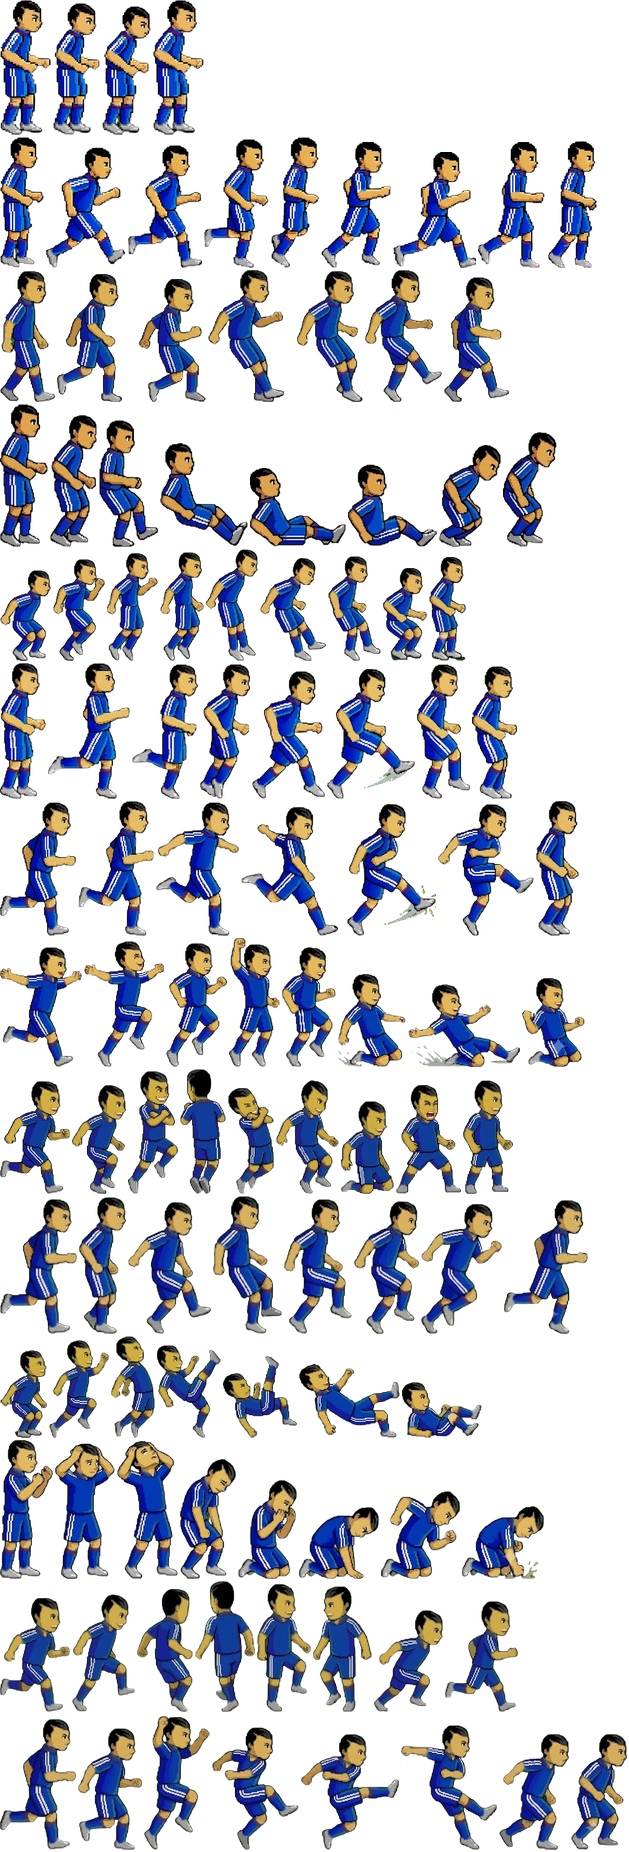
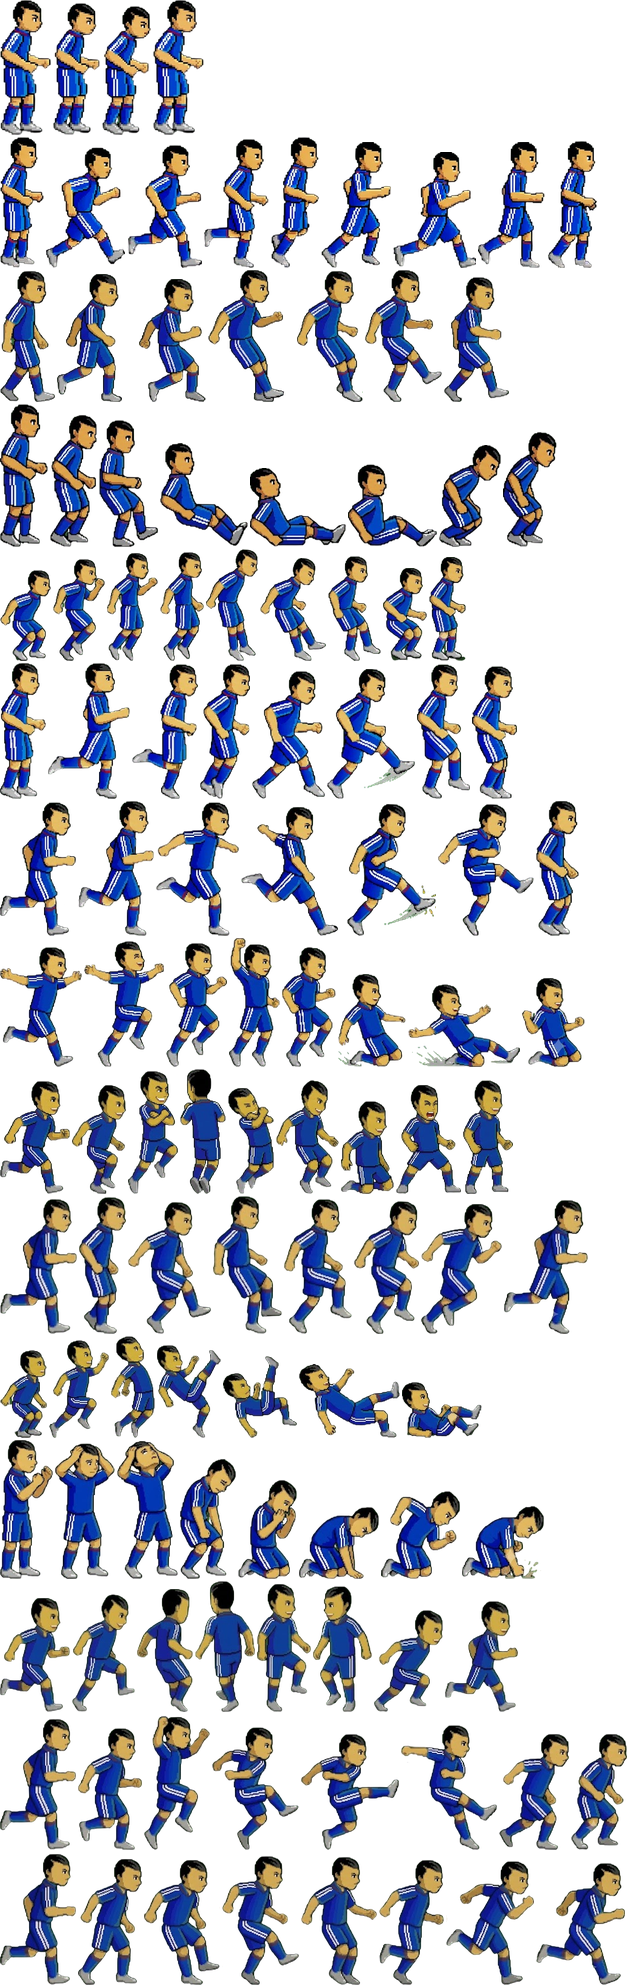
cap nhat qua nguoi

diff --git a/js/game.js b/js/game.js
@@ -250,7 +250,10 @@ function outcome(c,o){
 // Bước "Lừa qua": hiện bảng, tung xác suất, diễn hoạt. Trả về true nếu qua được.
 function lqStep(c,o){const p=chanceP(o.att,o.def,o.base??CH_BASE.lq,o.g??LQ_G),ok=rnd()<p;
   roll(o.rollLab||"Lừa qua",p,ok,o.detail);
-  c.S.push({dur:o.dur||0.9,t:o.t||{},ball:o.ball||{carry:o.holder||"A"},anim:o.anim,popup:{title:o.title,sub:"Lừa qua",L:o.L,R:o.R,p,ok},label:o.label,txt:o.txt});
+  // bảng hiện trước (cầu thủ đứng đối mặt), động tác lừa/kỹ năng diễn SAU khi bảng đóng để người chơi nhìn thấy
+  c.S.push({dur:0.6,t:o.t||{},ball:o.ball||{carry:o.holder||"A"},popup:{title:o.title,sub:"Lừa qua",L:o.L,R:o.R,p,ok},label:o.label,txt:o.txt});
+  if(ok&&o.anim){const who=Object.keys(o.anim)[0],nm=o.anim[who],sk=SKILLS[nm];
+    c.S.push({dur:sk?1.1:0.9,t:{},ball:{carry:who},anim:o.anim,label:sk?{[who]:sk.n+"!"}:undefined,txt:sk?`${c.ids[who].p.n} tung kỹ năng ${sk.n}!`:`${c.ids[who].p.n} đảo người lừa bóng`})}
   return ok}
 function lostBall(c,D,who,txt){c.S.push({dur:0.9,t:{D:[c.ids[who].x+0.6,c.ids[who].y]},ball:{carry:"D"},anim:{D:"slide",[who]:"fall"},txt:txt||`${D.n} xoạc bóng chuẩn xác`});
   c.S.push({dur:1,t:{},ball:{fly:null,to:OUT[(rnd()*3)|0],h:2},txt:`${D.n} phá bóng ra xa`});return "lost"}
@@ -283,7 +286,7 @@ function sceneDribble(c){
   const skl=trySkill(A,["roulette","stepover"]),a=eff(A,"re")*(skl?SKILLS[skl].mult:1);
   if(skl)roll(`Kỹ năng: ${SKILLS[skl].n}`,SKILLS[skl].rate,true,`${A.n} ★${A.star} — sức lừa ×${SKILLS[skl].mult}`);
   const ok=lqStep(c,{title:skl?`Kỹ Năng: ${SKILLS[skl].n}`:"Cơ Hội Sút Gần",att:a,def:eff(D,"xoac")*defBoost(c.def,"xoac"),L:[ent(A,c.atk,"re")],R:[ent(D,c.def,"xoac")],
-    detail:`Rê dắt ${A.re}${skl?` ×${SKILLS[skl].mult}`:""} vs Xoạc ${D.xoac}`,dur:skl?1.1:0.9,t:{A:[33.5,y0],D:[34.5,y0]},anim:skl?{A:skl}:undefined,label:{A:skl?SKILLS[skl].n+"!":`Rê dắt: ${A.re}`,D:`Xoạc: ${D.xoac}`},txt:skl?`${A.n} tung kỹ năng ${SKILLS[skl].n}!`:`${A.n} đối mặt ${D.n}`});
+    detail:`Rê dắt ${A.re}${skl?` ×${SKILLS[skl].mult}`:""} vs Xoạc ${D.xoac}`,dur:skl?1.1:0.9,t:{A:[33.5,y0],D:[34.5,y0]},anim:{A:skl||"lua"},label:{A:skl?SKILLS[skl].n+"!":`Rê dắt: ${A.re}`,D:`Xoạc: ${D.xoac}`},txt:skl?`${A.n} tung kỹ năng ${SKILLS[skl].n}!`:`${A.n} đối mặt ${D.n}`});
   if(!ok)return lostBall(c,D,"A");if(tryFoul(c,A,D,y0,a))return "foul";
   const sp=shotSpot(y0);c.S.push({dur:1.3,t:{A:sp,D:[sp[0]-3,sp[1]+(rnd()<.5?3:-3)]},ball:{carry:"A"},txt:`${A.n} đảo người qua ${D.n} đầy tinh tế!`});
   return finishShot(c,{role:"A",from:sp,stat:"sut",title:"Cơ Hội Sút Gần"});
@@ -293,7 +296,7 @@ function scenePass(c){
   const A=rp(c.atk,RW.aMid,"re"),B=rp(c.atk,RW.aFin,"sut",A),D=rp(c.def,RW.dNear,"doat",null,A),y0=laneY(A);setup(c,A,D,y0,B);
   c.S.push({dur:1.4,t:{A:[30,y0],D:[35,c.ids.D.y],G:[50.5,34+(y0-34)*.15],B:[33,c.ids.B.y]},ball:{carry:"A"},label:{A:`Rê dắt: ${A.re}`},txt:`${A.n} nhận bóng tuyệt đẹp từ đồng đội rồi dẫn bóng tiến về phía trước`});
   const ok=lqStep(c,{title:"Cơ Hội Sút Gần",att:eff(A,"re")+0.5*eff(B,"chuyen"),def:eff(D,"doat")*defBoost(c.def,"doat"),L:[ent(A,c.atk,"re"),ent(B,c.atk,"chuyen")],R:[ent(D,c.def,"doat")],
-    detail:`Rê dắt ${A.re} + 50%·Chuyền ${B.chuyen} vs Đoạt ${D.doat}`,t:{A:[33.5,y0],D:[34.5,y0]},label:{A:`Rê dắt: ${A.re}`,D:`Đoạt: ${D.doat}`},txt:`${A.n} đối mặt ${D.n}, ${B.n} băng lên phối hợp`});
+    detail:`Rê dắt ${A.re} + 50%·Chuyền ${B.chuyen} vs Đoạt ${D.doat}`,t:{A:[33.5,y0],D:[34.5,y0]},anim:{A:"lua"},label:{A:`Rê dắt: ${A.re}`,D:`Đoạt: ${D.doat}`},txt:`${A.n} đối mặt ${D.n}, ${B.n} băng lên phối hợp`});
   if(!ok)return lostBall(c,D,"A",`${D.n} đọc tình huống và cắt bóng!`);
   const recv=shotSpot(c.ids.B.y);c.S.push({dur:0.9,t:{A:[36,y0],B:recv,D:[34,y0+1]},ball:{fly:"B",to:recv},kicker:"A",txt:`${A.n} chuyền bóng lên phía trên cho ${B.n}`});
   return finishShot(c,{role:"B",from:recv,stat:"sut",title:"Cơ Hội Sút Gần"});
@@ -392,7 +395,7 @@ function sceneLong2(c){
   add(c,"A",A,c.atk,16,y0);add(c,"B",B,c.atk,22,clamp(y0+(y0<34?12:-12),8,60));add(c,"D",D,c.def,30,clamp(c.ids.B.y+(rnd()-.5)*4,8,60));add(c,"G",c.G,c.def,51,34);
   c.S.push({dur:1.3,t:{A:[21,y0],B:[26,c.ids.B.y],D:[29.5,c.ids.B.y+1],G:[50.5,34+(c.ids.B.y-34)*.15]},ball:{carry:"A"},label:{A:`Chuyền bóng: ${A.chuyen}`},txt:`${A.n} nhận bóng tuyệt đẹp từ đồng đội rồi dẫn bóng tiến về phía trước`});
   const ok=lqStep(c,{title:"Cơ Hội Sút Xa",att:eff(B,"re")+0.5*eff(A,"chuyen"),def:eff(D,"xoac")*defBoost(c.def,"xoac"),L:[ent(B,c.atk,"re"),ent(A,c.atk,"chuyen")],R:[ent(D,c.def,"xoac")],holder:"A",
-    detail:`Rê dắt ${B.re} + 50%·Chuyền ${A.chuyen} vs Xoạc ${D.xoac}`,t:{B:[28,c.ids.B.y],D:[29,c.ids.B.y+0.8]},label:{B:`Rê dắt: ${B.re}`,D:`Xoạc: ${D.xoac}`},txt:`${B.n} thoát khỏi sự đeo bám của ${D.n}`});
+    detail:`Rê dắt ${B.re} + 50%·Chuyền ${A.chuyen} vs Xoạc ${D.xoac}`,t:{B:[28,c.ids.B.y],D:[29,c.ids.B.y+0.8]},anim:{B:"lua"},label:{B:`Rê dắt: ${B.re}`,D:`Xoạc: ${D.xoac}`},txt:`${B.n} thoát khỏi sự đeo bám của ${D.n}`});
   if(!ok){c.S.push({dur:0.8,t:{D:[27,(y0+c.ids.B.y)/2]},ball:{fly:"D",to:[27,(y0+c.ids.B.y)/2]},kicker:"A",anim:{D:"slide"},txt:`${D.n} xoạc chân ra cắt đường chuyền`});
     c.S.push({dur:1,t:{},ball:{fly:null,to:OUT[(rnd()*3)|0],h:2},txt:`${D.n} phá bóng ra xa`});return "lost"}
   const sp=[29+rnd()*3,clamp(c.ids.B.y+(34-c.ids.B.y)*.3,12,56)];
@@ -405,7 +408,7 @@ function sceneLong(c){
   add(c,"A",A,c.atk,18,y0);add(c,"D",D,c.def,30,clamp(y0+(rnd()-.5)*6,10,58));add(c,"G",c.G,c.def,51,34);
   c.S.push({dur:1.3,t:{A:[25,y0],D:[29,c.ids.D.y],G:[50.5,34+(y0-34)*.15]},ball:{carry:"A"},label:{A:`Rê dắt: ${A.re}`},txt:`[Sút xa] ${A.n} nhận bóng tuyệt đẹp từ đồng đội rồi dẫn bóng tiến về phía trước`});
   const ok=lqStep(c,{title:"Cơ Hội Sút Xa",att:eff(A,"re"),def:eff(D,"doat")*defBoost(c.def,"doat"),L:[ent(A,c.atk,"re")],R:[ent(D,c.def,"doat")],
-    detail:`Rê dắt ${A.re} vs Đoạt ${D.doat}`,t:{A:[27.5,y0],D:[28.5,y0]},label:{A:`Rê dắt: ${A.re}`,D:`Đoạt: ${D.doat}`},txt:`${A.n} tìm khoảng trống trước ${D.n}`});
+    detail:`Rê dắt ${A.re} vs Đoạt ${D.doat}`,t:{A:[27.5,y0],D:[28.5,y0]},anim:{A:"lua"},label:{A:`Rê dắt: ${A.re}`,D:`Đoạt: ${D.doat}`},txt:`${A.n} tìm khoảng trống trước ${D.n}`});
   if(!ok){const corner=rnd()<.35;c.S.push({dur:0.6,t:{D:[28.8,y0]},ball:{fly:null,to:[29,y0],h:0.8},anim:{D:"slide"},kicker:"A",txt:`${D.n} lao người chặn cú sút`});
     c.S.push({dur:0.9,t:{},ball:{fly:null,to:corner?[53.5,y0<34?12:56]:OUT[(rnd()*3)|0],h:2},txt:corner?"Bóng đổi hướng đi hết đường biên ngang. Phạt góc!":"Bóng bật ra, hàng thủ phá đi"});
     if(corner)M.queue={type:"corner",side:c.side};return "blocked"}
@@ -548,7 +551,7 @@ function drawSprite(g,a,now,x,y,sc){
 const SPR={};
 for(const [k,src] of Object.entries(SPRITE_SRC)){const img=new Image();SPR[k]={img,ready:false,tint:{}};img.onload=()=>{SPR[k].ready=true;if(window.mgrRender)mgrRender()};img.src=src}
 const charKey=p=>p.sprite||(roleOf(p)==="TM"?"gk":"std");
-const FPS={volley:16,stepover:13,roulette:13,siu:7,run:0,drib:0,pass:16,shot:16,fk:15,long:16,pen:15,slide:14,head:16,bike:13,cele:6,regret:6,catch:14,dive:14};
+const FPS={lua:10,volley:16,stepover:13,roulette:13,siu:7,run:0,drib:0,pass:16,shot:16,fk:15,long:16,pen:15,slide:14,head:16,bike:13,cele:6,regret:6,catch:14,dive:14};
 const KICK_FALLBACK={volley:["volley","shot","fk"],pass:["pass","fk","shot"],shot:["shot","fk"],long:["long","shot"],fk:["fk","shot"],pen:["fk","shot"]};
 const CONTACT={volley:.56,pass:.55,shot:.6,long:.55,fk:.65};
 function hasAnim(key,an){return !!SPRITE_META[key].anims[an]}
@@ -581,7 +584,7 @@ function pickFrame(a,key,now){
   if(an==="jump"){[r.an,r.i]=A.head?once("head"):["idle",0];r.dy=-0.55*Math.sin(clamp(t/0.6,0,1)*Math.PI);return r}
   if(an==="bike"&&A.bike){[r.an,r.i]=once("bike");r.dy=-0.5*Math.sin(clamp(t/0.7,0,1)*Math.PI);return r}
   if(an==="regret"&&A.regret){[r.an,r.i]=once("regret");return r}
-  if((an==="stepover"||an==="roulette")&&A[an]){[r.an,r.i]=once(an);return r}
+  if((an==="stepover"||an==="roulette"||an==="lua")&&A[an]){[r.an,r.i]=once(an);return r}
   if(an==="celebrate"){const sv=hasSkill(a.p,"siu")&&A.siu?"siu":"cele";if(A[sv]){[r.an,r.i]=once(sv);return r}r.an="idle";r.i=0;r.dy=-0.35*Math.abs(Math.sin(t*7));return r}
   if(a.moving&&!A.run){r.an="idle";r.i=Math.floor((a.phase||0)*1.2)%A.idle.length;r.dy=-0.04*Math.abs(Math.sin((a.phase||0)*1.6));return r}
   if(a.moving){const set=(A.drib&&scene&&scene.holder===a.role)?"drib":"run";const n=A[set].length;r.an=set;r.i=Math.floor((a.phase||0)*n/5.7)%n;return r}

diff --git a/js/sprites.js b/js/sprites.js
@@ -1,5 +1,5 @@
 /* Sprite atlas: mỗi khung hình = [x, y, rộng, cao] trong ảnh atlas. Tạo bằng tools/build_atlas.py */
-const SPRITE_META={"std":{"ref":130,"anims":{"idle":[[0,0,51,135],[53,3,47,132],[102,6,49,129],[153,0,51,135]],"run":[[0,137,44,131],[46,145,79,123],[127,145,75,123],[204,139,65,129],[271,137,48,131],[321,142,70,126],[393,152,83,116],[478,142,67,126],[547,141,51,127]],"pass":[[0,271,55,131],[57,274,80,128],[139,279,67,123],[208,270,87,132],[297,271,66,131],[365,270,77,132],[444,277,65,125]],"slide":[[0,404,48,143],[50,415,47,132],[99,420,59,127],[160,443,88,104],[250,468,96,79],[348,464,89,83],[439,445,62,102],[503,432,54,115]],"head":[[0,570,51,91],[53,559,52,102],[107,553,51,108],[160,552,44,109],[206,549,52,112],[260,558,66,103],[328,556,53,105],[383,568,44,93],[429,557,37,104]],"shot":[[0,663,46,136],[48,663,82,136],[132,664,66,135],[200,664,50,135],[252,671,73,128],[327,669,88,130],[417,664,53,135],[472,666,45,133]],"long":[[0,802,76,134],[78,801,76,135],[156,802,83,134],[241,807,104,129],[347,804,89,132],[438,804,96,132],[536,801,43,135]],"cele":[[0,947,82,120],[84,941,80,126],[166,943,61,124],[229,938,51,129],[282,947,54,120],[338,974,68,93],[408,984,112,83],[522,978,63,89]],"siu":[[0,1081,70,113],[72,1085,54,109],[128,1071,50,123],[180,1069,46,125],[228,1088,46,106],[276,1080,63,114],[341,1101,53,93],[396,1085,65,109],[463,1080,50,114]],"stepover":[[0,1199,77,135],[79,1197,47,137],[128,1202,83,132],[213,1196,69,138],[284,1199,68,135],[354,1201,65,133],[421,1204,81,130],[504,1200,84,134]],"bike":[[0,1350,47,88],[49,1340,60,98],[111,1336,44,102],[157,1345,64,93],[223,1356,74,82],[299,1364,101,74],[402,1382,80,56]],"regret":[[0,1440,53,139],[55,1443,60,136],[117,1441,61,138],[180,1459,56,120],[238,1480,59,99],[299,1507,80,72],[381,1491,79,88],[462,1506,82,73]],"roulette":[[0,1598,70,114],[72,1594,63,118],[137,1589,56,123],[195,1581,60,131],[257,1584,54,128],[313,1586,59,126],[374,1610,69,102],[445,1601,73,111]],"volley":[[0,1719,76,131],[78,1728,64,122],[144,1716,66,134],[212,1727,87,123],[301,1734,98,116],[401,1725,96,125],[499,1734,70,116],[571,1734,56,116]]}},"gk":{"ref":130,"anims":{"idle":[[0,2,86,129],[88,5,83,126],[173,12,86,119],[261,0,84,131]],"catch":[[0,148,82,114],[84,133,98,129],[184,134,116,128],[302,184,131,78],[435,179,121,83],[558,176,85,86],[645,191,88,71]],"dive":[[0,271,88,115],[90,264,94,122],[186,271,118,115],[306,276,119,110],[427,310,85,76],[514,326,94,60],[610,316,77,70]]}}};
+const SPRITE_META={"std":{"ref":130,"anims":{"idle":[[0,0,51,135],[53,3,47,132],[102,6,49,129],[153,0,51,135]],"run":[[0,137,44,131],[46,145,79,123],[127,145,75,123],[204,139,65,129],[271,137,48,131],[321,142,70,126],[393,152,83,116],[478,142,67,126],[547,141,51,127]],"pass":[[0,271,55,131],[57,274,80,128],[139,279,67,123],[208,270,87,132],[297,271,66,131],[365,270,77,132],[444,277,65,125]],"slide":[[0,404,48,143],[50,415,47,132],[99,420,59,127],[160,443,88,104],[250,468,96,79],[348,464,89,83],[439,445,62,102],[503,432,54,115]],"head":[[0,570,51,91],[53,559,52,102],[107,553,51,108],[160,552,44,109],[206,549,52,112],[260,558,66,103],[328,556,53,105],[383,568,44,93],[429,557,37,104]],"shot":[[0,663,46,136],[48,663,82,136],[132,664,66,135],[200,664,50,135],[252,671,73,128],[327,669,88,130],[417,664,53,135],[472,666,45,133]],"long":[[0,802,76,134],[78,801,76,135],[156,802,83,134],[241,807,104,129],[347,804,89,132],[438,804,96,132],[536,801,43,135]],"cele":[[0,947,82,120],[84,941,80,126],[166,943,61,124],[229,938,51,129],[282,947,54,120],[338,974,68,93],[408,984,112,83],[522,978,63,89]],"siu":[[0,1081,70,113],[72,1085,54,109],[128,1071,50,123],[180,1069,46,125],[228,1088,46,106],[276,1080,63,114],[341,1101,53,93],[396,1085,65,109],[463,1080,50,114]],"stepover":[[0,1199,77,135],[79,1197,47,137],[128,1202,83,132],[213,1196,69,138],[284,1199,68,135],[354,1201,65,133],[421,1204,81,130],[504,1200,84,134]],"bike":[[0,1350,47,88],[49,1340,60,98],[111,1336,44,102],[157,1345,64,93],[223,1356,74,82],[299,1364,101,74],[402,1382,80,56]],"regret":[[0,1440,53,139],[55,1443,60,136],[117,1441,61,138],[180,1459,56,120],[238,1480,59,99],[299,1507,80,72],[381,1491,79,88],[462,1506,82,73]],"roulette":[[0,1598,70,114],[72,1594,63,118],[137,1589,56,123],[195,1581,60,131],[257,1584,54,128],[313,1586,59,126],[374,1610,69,102],[445,1601,73,111]],"volley":[[0,1719,76,131],[78,1728,64,122],[144,1716,66,134],[212,1727,87,123],[301,1734,98,116],[401,1725,96,125],[499,1734,70,116],[571,1734,56,116]],"lua":[[0,1854,76,131],[78,1859,64,126],[144,1860,76,125],[222,1856,77,129],[301,1857,76,128],[379,1860,65,125],[446,1861,88,124],[536,1863,89,122]]}},"gk":{"ref":130,"anims":{"idle":[[0,2,86,129],[88,5,83,126],[173,12,86,119],[261,0,84,131]],"catch":[[0,148,82,114],[84,133,98,129],[184,134,116,128],[302,184,131,78],[435,179,121,83],[558,176,85,86],[645,191,88,71]],"dive":[[0,271,88,115],[90,264,94,122],[186,271,118,115],[306,276,119,110],[427,310,85,76],[514,326,94,60],[610,316,77,70]]}}};
 const SPRITE_SRC={"std":"assets/atlas_std.png","gk":"assets/atlas_gk.png"};
 const TROLY_SRC="assets/tro-ly.webp";
 const NPC_IMG={"taichinh": "assets/npc-taichinh.webp", "chienthuat": "assets/npc-chienthuat.webp", "hlv": "assets/npc-hlv.webp", "moigioi": "assets/npc-moigioi.webp", "trolý": "assets/npc-troly.webp"};
